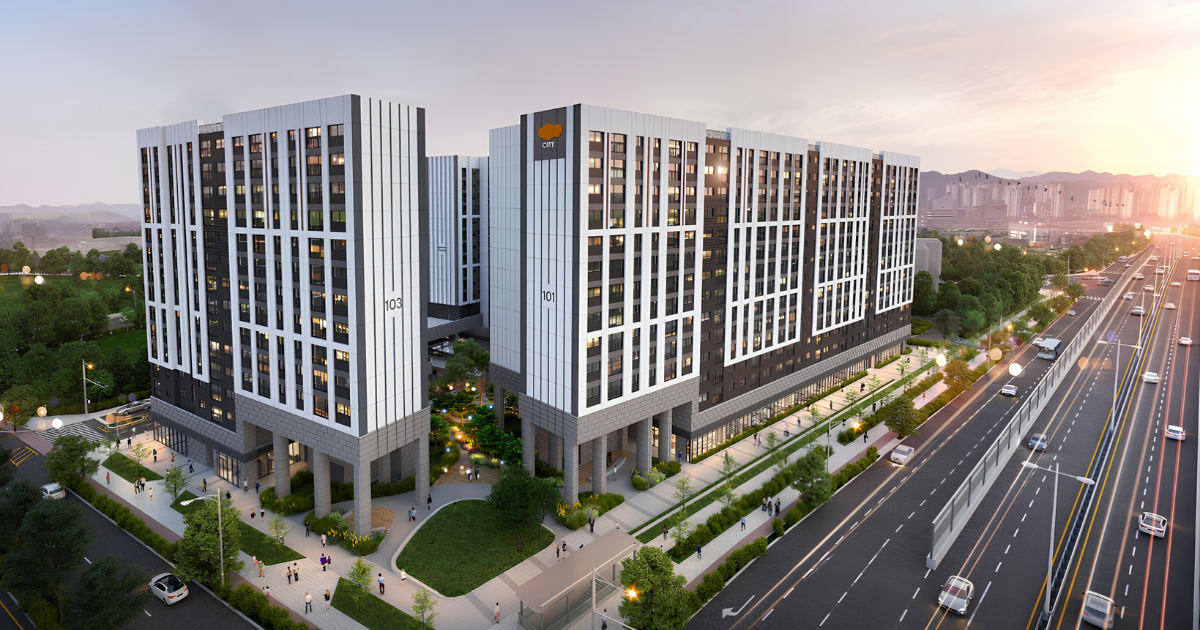
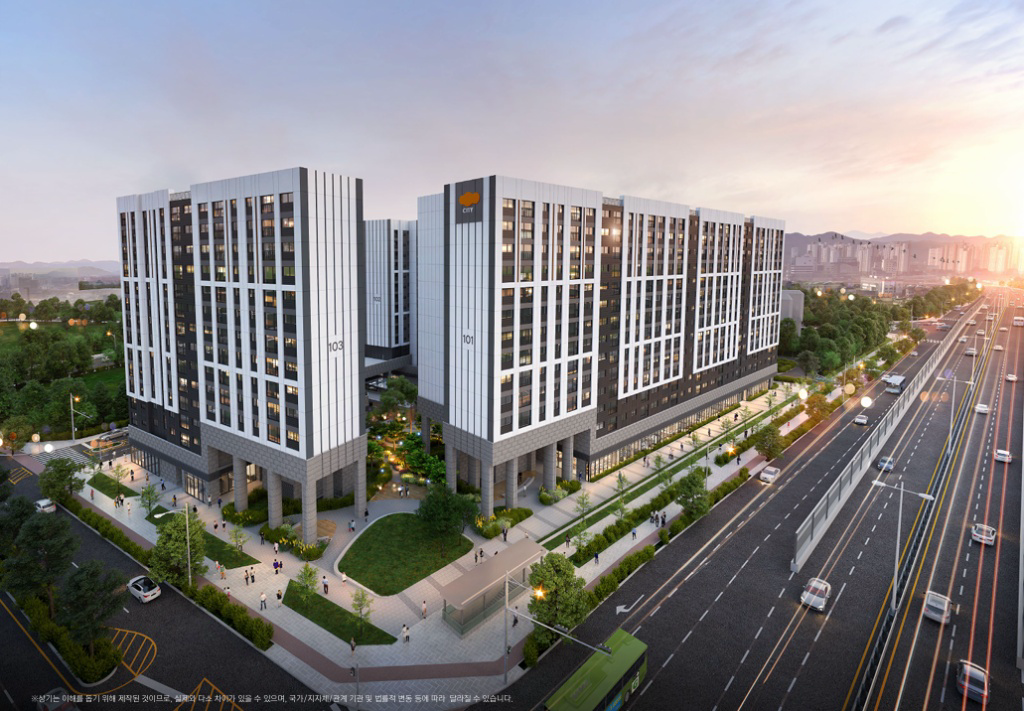
feat: update SEO, add GA4, and link blog
- Update site title and meta description for better SEO
- Add Google Analytics (gtag.js) for visitor tracking
- Link "상가고민해결사" blog in the footer
- Replace thumbnail image

diff --git a/index.html b/index.html
@@ -2,36 +2,54 @@
 <html lang="ko">
   <head>
     <meta charset="UTF-8" />
+    <!-- Google tag (gtag.js) -->
+    <script async src="https://www.googletagmanager.com/gtag/js?id=G-E52C926HJG"></script>
+    <script>
+      window.dataLayer = window.dataLayer || [];
+      function gtag(){dataLayer.push(arguments);}
+      gtag('js', new Date());
+
+      gtag('config', 'G-E52C926HJG');
+    </script>
     <meta name="viewport" content="width=device-width, initial-scale=1.0" />
     
     <meta name="naver-site-verification" content="e079a411d3edd79f0a976b0d97f5c19a55e1a6cb" />
     <meta name="robots" content="index, follow" />
     
-    <link rel="canonical" href="https://elife-gosaek.com" />
+    <link rel="canonical" href="https://elife-gosaek.com/" />
     
-    <title>e편한세상 시티 고색</title>
+    <title>e편한세상시티고색 | 덕산병원 앞 1층 상가 분양·임대</title>
     
-    <meta name="description" content="수원 고색역 초역세권! 706병상 수원덕산병원 배후수요를 품은 메디컬 상가(대형 약국, 베이커리 입점 추천) 및 3룸 오피스텔 안내." />
+    <meta name="description" content="수원덕산병원 정문 바로 앞, e편한세상 시티 고색 1층 상가를 분양·임대합니다. 수인분당선 고색역 도보 200m, 약국·베이커리부터 외식·주점·생활편의 업종까지 입점 호실과 84타입 3룸 오피스텔을 상담해 드립니다." />
     
     <meta property="og:type" content="website" />
     <meta property="og:site_name" content="e편한세상 시티 고색" />
-    <meta property="og:title" content="e편한세상 시티 고색" />
-    <meta property="og:description" content="수원 고색역 초역세권. 706병상 덕산병원 앞 메디컬 독점 상가 및 3룸 오피스텔" />
-    <meta property="og:image" content="https://elife-gosaek.com/thumbnail.png" />
-    <meta property="og:url" content="https://elife-gosaek.com" />
+    <meta property="og:title" content="e편한세상시티고색 | 덕산병원 앞 1층 상가 분양·임대" />
+    <meta property="og:description" content="수원덕산병원 정문 바로 앞, e편한세상 시티 고색 1층 상가를 분양·임대합니다. 수인분당선 고색역 도보 200m, 약국·베이커리부터 외식·주점·생활편의 업종까지 입점 호실과 84타입 3룸 오피스텔을 상담해 드립니다." />
+    <meta property="og:image" content="https://elife-gosaek.com/thumb.png" />
+    <meta property="og:url" content="https://elife-gosaek.com/" />
 
-    <link rel="icon" sizes="96x96" href="https://elife-gosaek.com/favicon.png" />
-    <link rel="shortcut icon" href="https://elife-gosaek.com/favicon.ico" />
+    <link rel="icon" type="image/png" href="/favicon.png" />
+    <link rel="icon" type="image/svg+xml" href="/favicon.svg" />
+    <link rel="apple-touch-icon" href="/favicon.png" />
 
     <script type="application/ld+json">
     {
       "@context": "https://schema.org",
-      "@type": "Person",
-      "name": "e편한세상 시티 고색",
-      "url": "https://elife-gosaek.com", 
+      "@type": "RealEstateAgent",
+      "name": "상가고민해결사",
+      "description": "e편한세상 시티 고색 1층 상가와 84타입 3룸 오피스텔 분양·임대 상담. 수원덕산병원 정문 앞 약국·베이커리·외식·주점·생활편의 업종별 추천 호실을 안내합니다.",
+      "url": "https://elife-gosaek.com/",
+      "telephone": "010-3370-8602",
+      "address": {
+        "@type": "PostalAddress",
+        "streetAddress": "고색동 894-125",
+        "addressLocality": "수원시 권선구",
+        "addressRegion": "경기도",
+        "addressCountry": "KR"
+      },
       "sameAs": [
-        "https://blog.naver.com/placebusiness",
-        "https://www.instagram.com/e편한세상시티고색"
+        "https://blog.naver.com/placebusiness"
       ]
     }
     </script>

diff --git a/src/components/layout/Footer.tsx b/src/components/layout/Footer.tsx
@@ -29,6 +29,17 @@ export default function Footer({ onAdminOpen }: { onAdminOpen: () => void }) {
               <h4 className="text-primary text-xs font-bold uppercase tracking-widest mb-6">Support</h4>
               <ul className="space-y-4 text-sm">
                 <li><a href={`tel:${PROJECT_INFO.representativeNumber.replace(/[^0-9]/g, '')}`} className="hover:text-accent transition-colors font-bold text-primary">대표문의</a></li>
+                <li>
+                  <a 
+                    href="https://blog.naver.com/placebusiness" 
+                    target="_blank" 
+                    rel="noopener noreferrer" 
+                    className="hover:text-accent transition-colors text-emerald-700 font-semibold inline-flex items-center gap-1"
+                  >
+                    상가고민해결사 블로그
+                    <span className="text-xs">↗</span>
+                  </a>
+                </li>
                 <li><a href="#" className="hover:text-accent transition-colors">이용약관</a></li>
                 <li><a href="#" className="hover:text-accent transition-colors text-accent">개인정보처리방침</a></li>
               </ul>
